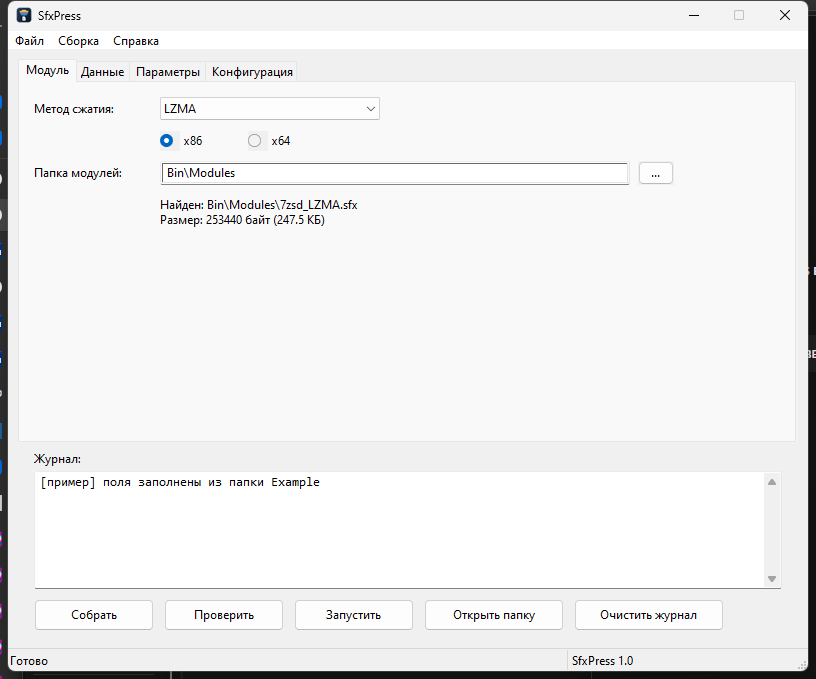
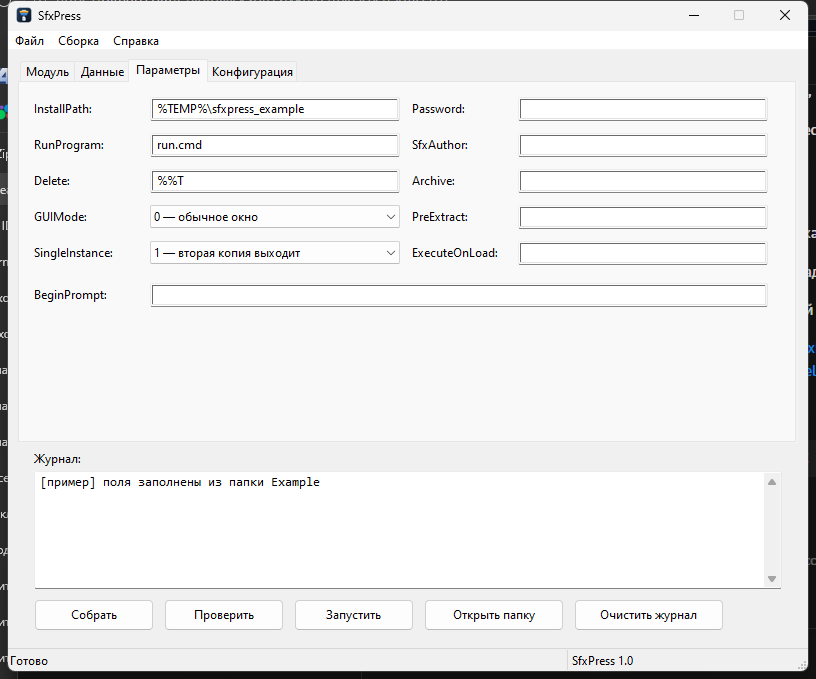
Компактные выпадающие списки (не перекрывают поля на вкладке Параметры)

diff --git a/src/main.cpp b/src/main.cpp
@@ -768,7 +768,7 @@ static void CreateUi(HWND hWnd)
         TabCtrl_InsertItem(g.hTab, i, &ti);
     }
     Label(L"Метод сжатия:", 26, 50, 120, 20, PAGE_MODULE);
-    g.hMethod = Combo(152, 46, 220, 240, ID_METHOD, PAGE_MODULE);
+    g.hMethod = Combo(152, 46, 220, 110, ID_METHOD, PAGE_MODULE);
     AddComboItem(g.hMethod, L"Base (Copy + LZMA)", 0);
     AddComboItem(g.hMethod, L"LZMA", 1);
     AddComboItem(g.hMethod, L"LZMA2", 2);
@@ -813,13 +813,13 @@ static void CreateUi(HWND hWnd)
     Label(L"Delete:", 26, y1 + dy * 2, 110, 20, PAGE_PARAMS);
     g.hDelete = Edit(142, y1 + dy * 2 - 4, 250, ID_DELETE, PAGE_PARAMS, L"%%T");
     Label(L"GUIMode:", 26, y1 + dy * 3, 110, 20, PAGE_PARAMS);
-    g.hGuiMode = Combo(142, y1 + dy * 3 - 4, 250, 200, ID_GUIMODE, PAGE_PARAMS);
+    g.hGuiMode = Combo(142, y1 + dy * 3 - 4, 250, 96, ID_GUIMODE, PAGE_PARAMS);
     AddComboItem(g.hGuiMode, L"0 — обычное окно", 0);
     AddComboItem(g.hGuiMode, L"1 — только прогресс", 1);
     AddComboItem(g.hGuiMode, L"2 — тихий режим", 2);
     SendMessageW(g.hGuiMode, CB_SETCURSEL, 2, 0);
     Label(L"SingleInstance:", 26, y1 + dy * 4, 110, 20, PAGE_PARAMS);
-    g.hSingleInstance = Combo(142, y1 + dy * 4 - 4, 250, 200, ID_SINGLEINSTANCE, PAGE_PARAMS);
+    g.hSingleInstance = Combo(142, y1 + dy * 4 - 4, 250, 96, ID_SINGLEINSTANCE, PAGE_PARAMS);
     AddComboItem(g.hSingleInstance, L"0 — выключено", 0);
     AddComboItem(g.hSingleInstance, L"1 — вторая копия выходит", 1);
     AddComboItem(g.hSingleInstance, L"2 — активировать первую", 2);
